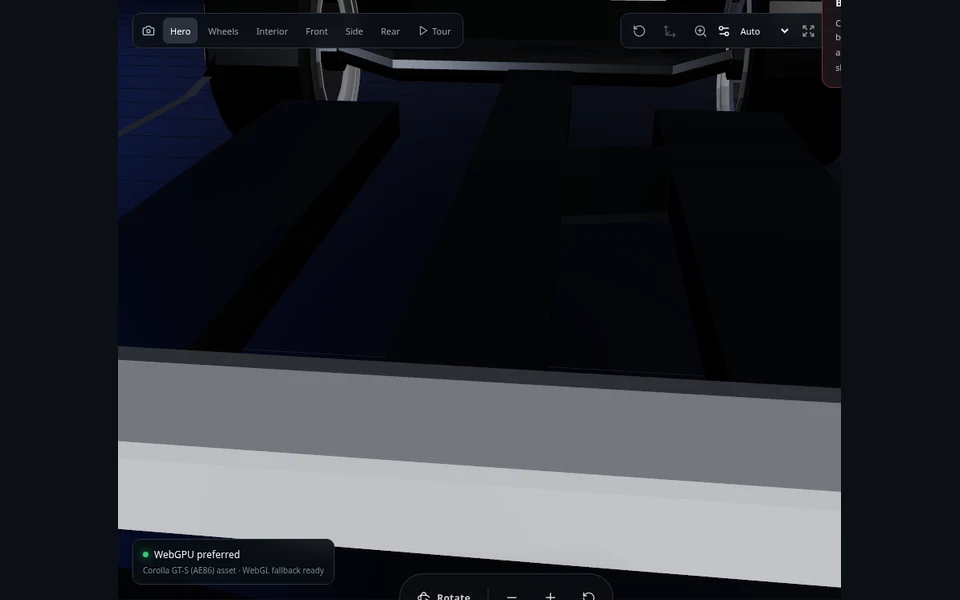
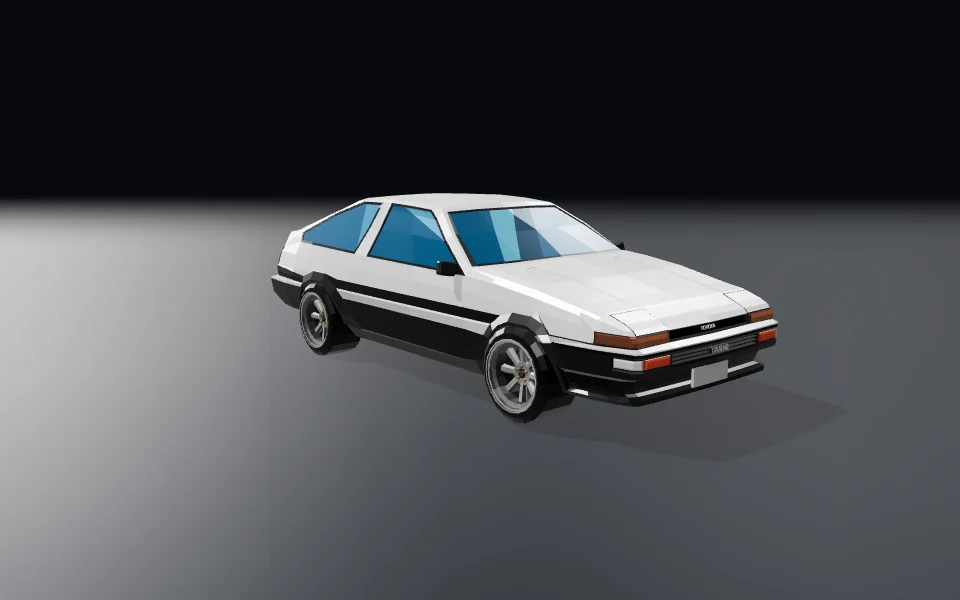
recovery: preserve showroom vehicle and rendering work

diff --git a/app/globals.css b/app/globals.css
@@ -66,8 +66,13 @@ html, body { margin: 0; min-height: 100%; background: var(--bg); color: var(--te
 body { font-family: var(--font-family-base); overflow: auto; }
 button { font: inherit; color: inherit; }
 
-/* Only the fixed-height configurator owns viewport locking. Document-flow routes (Explore/Compare/Garage) must scroll normally. */
-.builder-shell { height: 100vh; min-height: 100vh; overflow: hidden; background: radial-gradient(circle at 45% 10%, #18202a 0, #0b0f14 38%, #07090c 100%); }
+/*
+ * Only the fixed-height configurator owns viewport locking. Document-flow routes (Explore/Compare/Garage) must scroll normally.
+ * `100dvh` tracks the visible viewport as mobile toolbars show and hide; `100vh` alone is the largest viewport, which leaves
+ * the shell taller than the screen while the address bar is visible. The `:has` rule locks the document itself on this route.
+ */
+body:has(.builder-shell) { overflow: hidden; overscroll-behavior: none; }
+.builder-shell { height: 100vh; height: 100dvh; min-height: 0; overflow: hidden; background: radial-gradient(circle at 45% 10%, #18202a 0, #0b0f14 38%, #07090c 100%); }
 .builder-status { display: grid; place-items: center; color: var(--muted); font-size: 14px; }
 .topbar {
   height: 72px; display: grid; grid-template-columns: 260px 1fr auto; align-items: center;
@@ -183,7 +188,7 @@ button { font: inherit; color: inherit; }
 }
 
 
-.workspace { height: calc(100vh - 72px); display: grid; grid-template-columns: 238px minmax(0, 1fr) 304px; }
+.workspace { height: calc(100vh - 72px); height: calc(100dvh - 72px); display: grid; grid-template-columns: 238px minmax(0, 1fr) 304px; }
 .left-rail, .right-panel { background: rgba(12,16,21,.95); overflow: auto; }
 .left-rail { border-right: 1px solid #202731; padding: 24px 16px; }
 .right-panel { border-left: 1px solid #202731; padding: 22px 16px; }
@@ -257,7 +262,9 @@ button { font: inherit; color: inherit; }
 
 .static-vehicle-preview {
   z-index: 3; display: grid; place-items: center; overflow: hidden; pointer-events: auto;
-  background: radial-gradient(circle at 50% 42%, #1d2732 0, #0c1117 58%, #080b0f 100%);
+  /* Flat, matching the edge colour of the static stills: they carry their own opaque backdrop (share-card
+     crawlers need one), so a gradient here would outline the image. */
+  background: #0b0f14;
 }
 .static-vehicle-preview img {
   width: 100%; height: 100%; object-fit: contain; padding: clamp(28px, 6vw, 72px);
@@ -510,7 +517,7 @@ button { font: inherit; color: inherit; }
     display: grid; place-items: center; width: 38px; height: 38px; padding: 0;
     border: 1px solid var(--border); border-radius: 9px; background: #151a21;
   }
-  .workspace { height: calc(100vh - 72px); grid-template-columns: 1fr; }
+  .workspace { height: calc(100vh - 72px); height: calc(100dvh - 72px); grid-template-columns: 1fr; }
   .left-rail, .right-panel {
     display: block; position: fixed; top: 72px; bottom: 0; width: min(92vw, 340px);
     z-index: 22; visibility: hidden;

diff --git a/lib/three/renderController.ts b/lib/three/renderController.ts
@@ -114,6 +114,8 @@ export class RenderController {
   private tick: (() => void) | undefined;
   private running = true;
   private suspended: boolean;
+  /** Set by the owner when the canvas is covered (e.g. a static vehicle preview) — no frames are painted. */
+  private paused = false;
   private rafId = 0;
   private framePublishCount = 0;
   private disposed = false;
@@ -346,6 +348,7 @@ export class RenderController {
     // Idle suspension is a page-visibility concept and does not apply in XR: the canvas is not what
     // the viewer is looking at, and an IntersectionObserver on it says nothing about the headset.
     if (this.suspended && !this.xrPresenting) return;
+    if (this.paused) return;
     const stats = this.frameStats.record(performance.now());
     // Reuses the delta frameStats already computed rather than timing the loop a second time.
     this.governor.recordFrame(stats.lastFrameMs);
@@ -376,6 +379,25 @@ export class RenderController {
       // In XR the device asks for the next frame itself; self-queueing would run two loops.
       if (this.running && !this.suspended && !this.xrPresenting) this.queueFrame();
     });
+  }
+
+  /**
+   * Stops or resumes painting frames while keeping the scene loaded. For an owner that covers the
+   * canvas with something opaque: an invisible scene should not spend GPU time or battery.
+   */
+  setPaused(paused: boolean): void {
+    if (this.disposed || this.paused === paused) return;
+    this.paused = paused;
+    if (paused) {
+      this.cancelPendingRaf();
+      return;
+    }
+    if (this.running && !this.suspended && !this.xrPresenting) {
+      this.cancelPendingRaf();
+      this.frameStats.reset();
+      this.governor.reset();
+      this.loop();
+    }
   }
 
   /**

diff --git a/tests/e2e/release-regressions.spec.ts b/tests/e2e/release-regressions.spec.ts
@@ -61,7 +61,9 @@ test("Tacoma uses an explicit static preview instead of exposing the procedural 
   const preview = page.getByTestId("static-vehicle-preview");
   await expect(preview).toBeVisible();
   await expect(preview).toContainText("3D model unavailable");
-  await expect(preview.locator("img")).toHaveAttribute("src", /vehicles\/tacoma\/tacoma-static-preview\.svg/);
+  await expect(preview.locator("img")).toHaveAttribute("src", /vehicles\/tacoma\/tacoma-static-preview\.png/);
+  // A src match alone let a corrupt file ship; require the browser to actually decode it.
+  await expect.poll(() => preview.locator("img").evaluate((img: HTMLImageElement) => img.complete && img.naturalWidth)).toBeGreaterThan(0);
   await expect(page.locator(".stage-toolbar")).toHaveCount(0);
   await expect(page.getByRole("group", { name: /Vehicle viewer/i })).toHaveCount(0);
 });
@@ -76,9 +78,15 @@ test("Explore uses vehicle-specific Tacoma and AE86 imagery", async ({ page }) =
   const tacoma = await sourceFor("Tacoma");
   const ae86 = await sourceFor("Corolla GT-S (AE86)");
 
-  expect(tacoma).toContain("/vehicles/tacoma/tacoma-static-preview.svg");
+  expect(tacoma).toContain("/vehicles/tacoma/tacoma-static-preview.png");
   expect(ae86).toContain("/vehicles/ae86/ae86-front-three-quarter.webp");
   expect(tacoma).not.toBe(runner);
   expect(ae86).not.toBe(runner);
   expect(ae86).not.toBe(tacoma);
+
+  for (const model of ["Tacoma", "Corolla GT-S (AE86)"]) {
+    const img = page.locator(".vehicle-card").filter({ hasText: model }).locator("img").first();
+    await img.scrollIntoViewIfNeeded();
+    await expect.poll(() => img.evaluate((el: HTMLImageElement) => el.complete && el.naturalWidth)).toBeGreaterThan(0);
+  }
 });

diff --git a/lib/data/options/land-cruiser.ts b/lib/data/options/land-cruiser.ts
@@ -1,4 +1,5 @@
 import type { CustomizationOption, MaterialConfig } from "../../types/customization";
+import { paintCustomSentinel } from "../paintStudio";
 
 const V = ["land-cruiser"];
 const PAINT_NODES = [
@@ -39,23 +40,12 @@ export const landCruiserOptions: CustomizationOption[] = [
   // Custom paint studio sentinel — material numbers persist on VehicleConfiguration.paintStudio,
   // not as GLB material names. Targets stay catalog-owned (this asset's CarPaint nodes/materials),
   // matching the 4Runner's sentinel shape (lib/data/options/4runner.ts).
-  {
-    id: "paint-custom",
-    category: "paint",
-    label: "Custom Paint Studio",
-    operation: "material-update",
+  paintCustomSentinel({
+    vehicleIds: V,
     targetNodes: PAINT_NODES,
     targetMaterials: ["CarPaint", "CarPaint_N2"],
-    materialConfig: {
-      color: "#1558d6",
-      metalness: 0.42,
-      roughness: 0.22,
-      clearcoat: 1,
-      clearcoatRoughness: 0.07,
-    },
-    priceDelta: 595,
-    compatibleVehicleIds: V,
-  },
+    materialConfig: { metalness: 0.42, roughness: 0.22, clearcoatRoughness: 0.07 },
+  }),
   option("lc-wheel-machined", "wheels", "Machined Alloy Wheels", WHEELS, ["black_metal", "chrome"], { color: "#9aa0a6", metalness: 0.9, roughness: 0.22 }, 0, "wheels"),
   option("lc-wheel-black", "wheels", "Black Alloy Wheels", WHEELS, ["black_metal", "chrome"], { color: "#141619", metalness: 0.82, roughness: 0.25 }, 750, "wheels"),
   option("lc-wheel-bronze", "wheels", "Bronze Off-Road Wheels", WHEELS, ["black_metal", "chrome"], { color: "#7a5d3c", metalness: 0.84, roughness: 0.3 }, 950, "wheels"),

diff --git a/app/components/VehicleCanvas.tsx b/app/components/VehicleCanvas.tsx
@@ -225,6 +225,7 @@ export function VehicleCanvas({ threeDConfig, slug, catalog, cameraPreset, inter
   const onXrErrorRef = useRef(onXrError);
   const onQualityPreferenceLoadedRef = useRef(onQualityPreferenceLoaded);
   const qualityPreferenceRef = useRef(qualityPreference);
+  const interactiveRef = useRef(interactive);
   const onQualityNeedsReloadRef = useRef(onQualityNeedsReload);
   const xrControllerRef = useRef<XrSessionController | null>(null);
   useEffect(() => {
@@ -565,6 +566,9 @@ export function VehicleCanvas({ threeDConfig, slug, catalog, cameraPreset, inter
       // Priority 6) — `tick` is the one per-frame hook it doesn't own: the camera update that has
       // to happen before each paint.
       renderController.start(() => cameraController.update());
+      // A non-interactive canvas sits under an opaque static preview; it keeps loading the model
+      // (the builder's option list comes from `onReady`) but paints nothing.
+      renderController.setPaused(!interactiveRef.current);
 
       // Assign cleanup before any await so an unmount mid-load still tears the renderer down.
       cleanup = () => {
@@ -890,6 +894,11 @@ export function VehicleCanvas({ threeDConfig, slug, catalog, cameraPreset, inter
     // (including `antialias`, which only construction can set).
     writeQualityPreference(qualityPreference);
   }, [qualityPreference]);
+
+  useEffect(() => {
+    interactiveRef.current = interactive;
+    renderControllerRef.current?.setPaused(!interactive);
+  }, [interactive]);
 
   useEffect(() => {
     if (enterXrSignal === undefined) return;

diff --git a/lib/data/vehicles/ae86.ts b/lib/data/vehicles/ae86.ts
@@ -94,7 +94,7 @@ export const ae86: Vehicle = {
   ],
 
   media: {
-    // Dedicated still captured from this vehicle's verified in-app GLB so lineup cards never borrow another model's imagery.
+    // Dedicated still rendered from this vehicle's GLB (at the scale below) so lineup cards never borrow another model's imagery.
     hero: { url: "/images/vehicles/ae86/ae86-front-three-quarter.webp", alt: "1985 Toyota Corolla GT-S AE86 front three-quarter 3D render" },
     gallery: [],
     thumbnails: [{ url: "/images/vehicles/ae86/ae86-front-three-quarter.webp", alt: "1985 Toyota Corolla GT-S AE86 thumbnail" }],
@@ -105,8 +105,11 @@ export const ae86: Vehicle = {
   threeDConfig: {
     hasModel: true,
     modelUrl: "/models/toyota-ae86-ivofficial.glb",
+    // The asset is authored ~4.4x real size (18.6 units long); this brings it to the AE86's 4.19 m so
+    // the metre-based camera presets below frame it instead of sitting inside the body.
+    scale: [0.225, 0.225, 0.225],
     // Distances scaled down from the 4Runner's presets for a car roughly two-thirds the length and
-    // notably lower. These presets have since been browser-verified at desktop and mobile sizes.
+    // notably lower.
     cameraPresets: [
       { id: "hero", label: "Hero", position: [5.0, 2.2, 5.5], target: [0, 0.55, 0] },
       { id: "wheels", label: "Wheels", position: [3.0, 0.65, 3.1], target: [-0.55, 0.35, 0.85] },

diff --git a/lib/data/paintStudio.ts b/lib/data/paintStudio.ts
@@ -1,4 +1,4 @@
-import type { MaterialConfig } from "../types/customization";
+import type { CustomizationOption, MaterialConfig } from "../types/customization";
 import type { PaintStudioMaterialParams, PaintStudioState } from "../types/paintStudio";
 
 /**
@@ -18,6 +18,29 @@ export const PAINT_CUSTOM_OPTION_ID = "paint-custom";
 
 /** Studio fee when the builder is in custom paint mode. */
 export const PAINT_CUSTOM_PRICE_DELTA = 595;
+
+/**
+ * Builds a vehicle catalog's `paint-custom` sentinel. Node and material targets are a required pair:
+ * the scene layer takes both from the sentinel, so they must describe the same asset.
+ */
+export function paintCustomSentinel(input: {
+  vehicleIds: string[];
+  targetNodes: string[];
+  targetMaterials: string[];
+  materialConfig?: Partial<MaterialConfig>;
+}): CustomizationOption {
+  return {
+    id: PAINT_CUSTOM_OPTION_ID,
+    category: "paint",
+    label: "Custom Paint Studio",
+    operation: "material-update",
+    targetNodes: input.targetNodes,
+    targetMaterials: input.targetMaterials,
+    materialConfig: { ...DEFAULT_CUSTOM_MATERIAL, ...input.materialConfig },
+    priceDelta: PAINT_CUSTOM_PRICE_DELTA,
+    compatibleVehicleIds: input.vehicleIds,
+  };
+}
 
 export type HdriLightingKey = "studio" | "showroom" | "overcast" | "sunset";
 

diff --git a/lib/three/sceneController.ts b/lib/three/sceneController.ts
@@ -192,8 +192,11 @@ export class VehicleSceneController {
   applyPaintStudio(paintStudio: PaintStudioState | undefined): boolean {
     if (!paintStudio || paintStudio.mode !== "custom" || !paintStudio.material) return false;
     const sentinel = this.catalog.get(PAINT_CUSTOM_OPTION_ID);
-    const targetNodes = sentinel?.targetNodes?.length ? sentinel.targetNodes : [...PAINT_STUDIO_TARGET_NODES];
-    const targetMaterials = sentinel?.targetMaterials?.length ? sentinel.targetMaterials : [...PAINT_STUDIO_TARGET_MATERIALS];
+    // Nodes and materials must come from the same source — mixing a vehicle's nodes with the shared
+    // material names would silently match nothing.
+    const sentinelTargetsComplete = Boolean(sentinel?.targetNodes?.length && sentinel.targetMaterials?.length);
+    const targetNodes = sentinelTargetsComplete ? sentinel!.targetNodes! : [...PAINT_STUDIO_TARGET_NODES];
+    const targetMaterials = sentinelTargetsComplete ? sentinel!.targetMaterials! : [...PAINT_STUDIO_TARGET_MATERIALS];
     const meshes = resolveMeshes(this.root, targetNodes);
     if (meshes.length === 0) return false;
     const config = materialConfigFromPaintStudio(paintStudio.material);

diff --git a/lib/data/options/4runner.ts b/lib/data/options/4runner.ts
@@ -1,4 +1,5 @@
 import type { CustomizationOption } from "../../types/customization";
+import { paintCustomSentinel } from "../paintStudio";
 
 /**
  * 4Runner customization catalog.
@@ -75,23 +76,7 @@ export const fourRunnerOptions: CustomizationOption[] = [
 
   // Custom paint studio sentinel — material numbers persist on VehicleConfiguration.paintStudio,
   // not as GLB material names. Targets stay catalog-owned (BODY / body.carmain).
-  {
-    id: "paint-custom",
-    category: "paint",
-    label: "Custom Paint Studio",
-    operation: "material-update",
-    targetNodes: PAINT_NODES,
-    targetMaterials: PAINT_MATERIALS,
-    materialConfig: {
-      color: "#1558d6",
-      metalness: 0.65,
-      roughness: 0.28,
-      clearcoat: 1,
-      clearcoatRoughness: 0.06,
-    },
-    priceDelta: 595,
-    compatibleVehicleIds: VEHICLE,
-  },
+  paintCustomSentinel({ vehicleIds: VEHICLE, targetNodes: PAINT_NODES, targetMaterials: PAINT_MATERIALS }),
 
   // ---------------------------------------------------------- wheel finish
   // `wheel.metal` is also used by the hidden donor node `322-1790(MD010)`, so these updates go

diff --git a/lib/data/options/rav4.ts b/lib/data/options/rav4.ts
@@ -1,4 +1,5 @@
 import type { CustomizationOption } from "../../types/customization";
+import { paintCustomSentinel } from "../paintStudio";
 
 /**
  * RAV4 customization catalog.
@@ -69,23 +70,7 @@ export const rav4Options: CustomizationOption[] = [
   // Custom paint studio sentinel — material numbers persist on VehicleConfiguration.paintStudio,
   // not as GLB material names. Targets stay catalog-owned (BODY / body.carmain), matching the
   // 4Runner's sentinel shape (lib/data/options/4runner.ts).
-  {
-    id: "paint-custom",
-    category: "paint",
-    label: "Custom Paint Studio",
-    operation: "material-update",
-    targetNodes: PAINT_NODES,
-    targetMaterials: PAINT_MATERIALS,
-    materialConfig: {
-      color: "#1558d6",
-      metalness: 0.65,
-      roughness: 0.28,
-      clearcoat: 1,
-      clearcoatRoughness: 0.06,
-    },
-    priceDelta: 595,
-    compatibleVehicleIds: VEHICLE,
-  },
+  paintCustomSentinel({ vehicleIds: VEHICLE, targetNodes: PAINT_NODES, targetMaterials: PAINT_MATERIALS }),
 
   // ----------------------------------------------------------------- trim
   {

diff --git a/tests/sceneController.test.ts b/tests/sceneController.test.ts
@@ -383,3 +383,24 @@ describe("procedural runtime modification replay", () => {
     expect(node.visible).toBe(false);
   });
 });
+
+describe("paint studio targets", () => {
+  it("falls back to the shared node/material pair when a sentinel only names one half", () => {
+    const fixture = createVehicleFixture();
+    const { satisfied } = verifyNodeContract(fixture.root, fourRunnerOptions);
+    // A sentinel with nodes but no materials must not pair its nodes with the shared material names.
+    const catalog = satisfied.map((option) =>
+      option.id === "paint-custom" ? { ...option, targetNodes: ["SENTINEL_ONLY_NODE"], targetMaterials: undefined } : option,
+    );
+    const controller = new VehicleSceneController(fixture.root, catalog);
+
+    const applied = controller.applyPaintStudio({
+      mode: "custom",
+      hdriPresetId: "hdri-studio",
+      material: { color: "#123456", metalness: 0.5, roughness: 0.3, clearcoat: 1, clearcoatRoughness: 0.05 },
+    });
+
+    expect(applied).toBe(true);
+    expect(colorHexAt(fixture.root, "BODY", "body.carmain")).toBe("123456");
+  });
+});

diff --git a/tests/renderController.test.ts b/tests/renderController.test.ts
@@ -240,6 +240,21 @@ describe("RenderController", () => {
       expect(fakeRenderer.renderCalls).toBe(0);
     });
 
+    it("paints nothing while paused and resumes the chain when unpaused", async () => {
+      const { fakeRenderer, controller } = await makeController();
+      controller.attachScene(new THREE.Scene(), new THREE.PerspectiveCamera());
+      controller.start(() => {});
+      controller.setPaused(true);
+      await vi.advanceTimersByTimeAsync(16 * 3);
+      const pausedRenders = fakeRenderer.renderCalls;
+      await vi.advanceTimersByTimeAsync(16 * 5);
+      expect(fakeRenderer.renderCalls).toBe(pausedRenders);
+
+      controller.setPaused(false);
+      await vi.advanceTimersByTimeAsync(16 * 3);
+      expect(fakeRenderer.renderCalls).toBeGreaterThan(pausedRenders);
+    });
+
     it("publishes a frame-stats dataset snapshot after enough frames", async () => {
       const { controller } = await makeController();
       controller.attachScene(new THREE.Scene(), new THREE.PerspectiveCamera());
